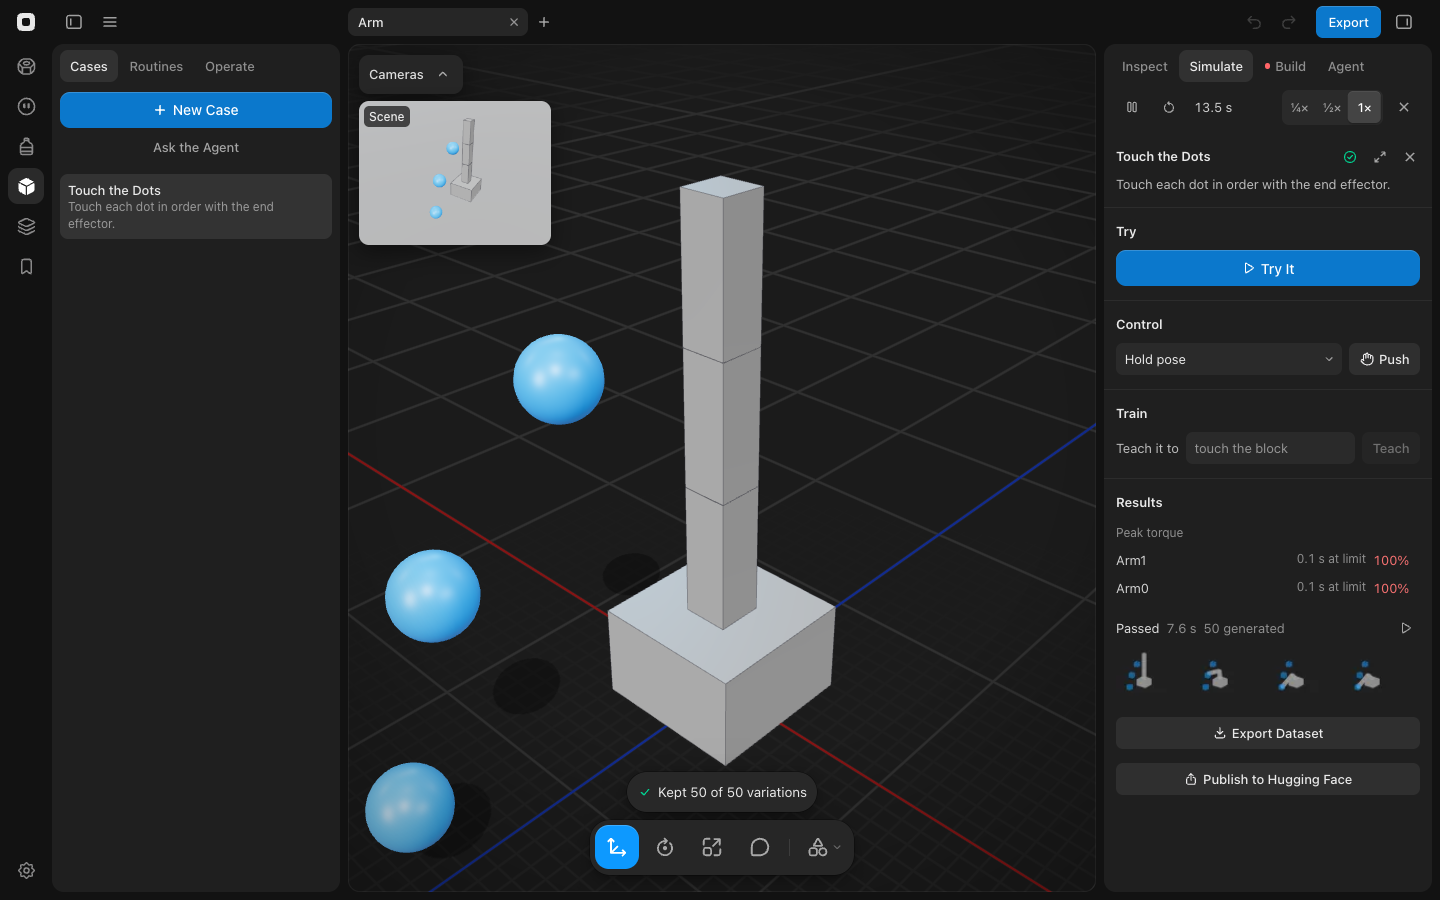
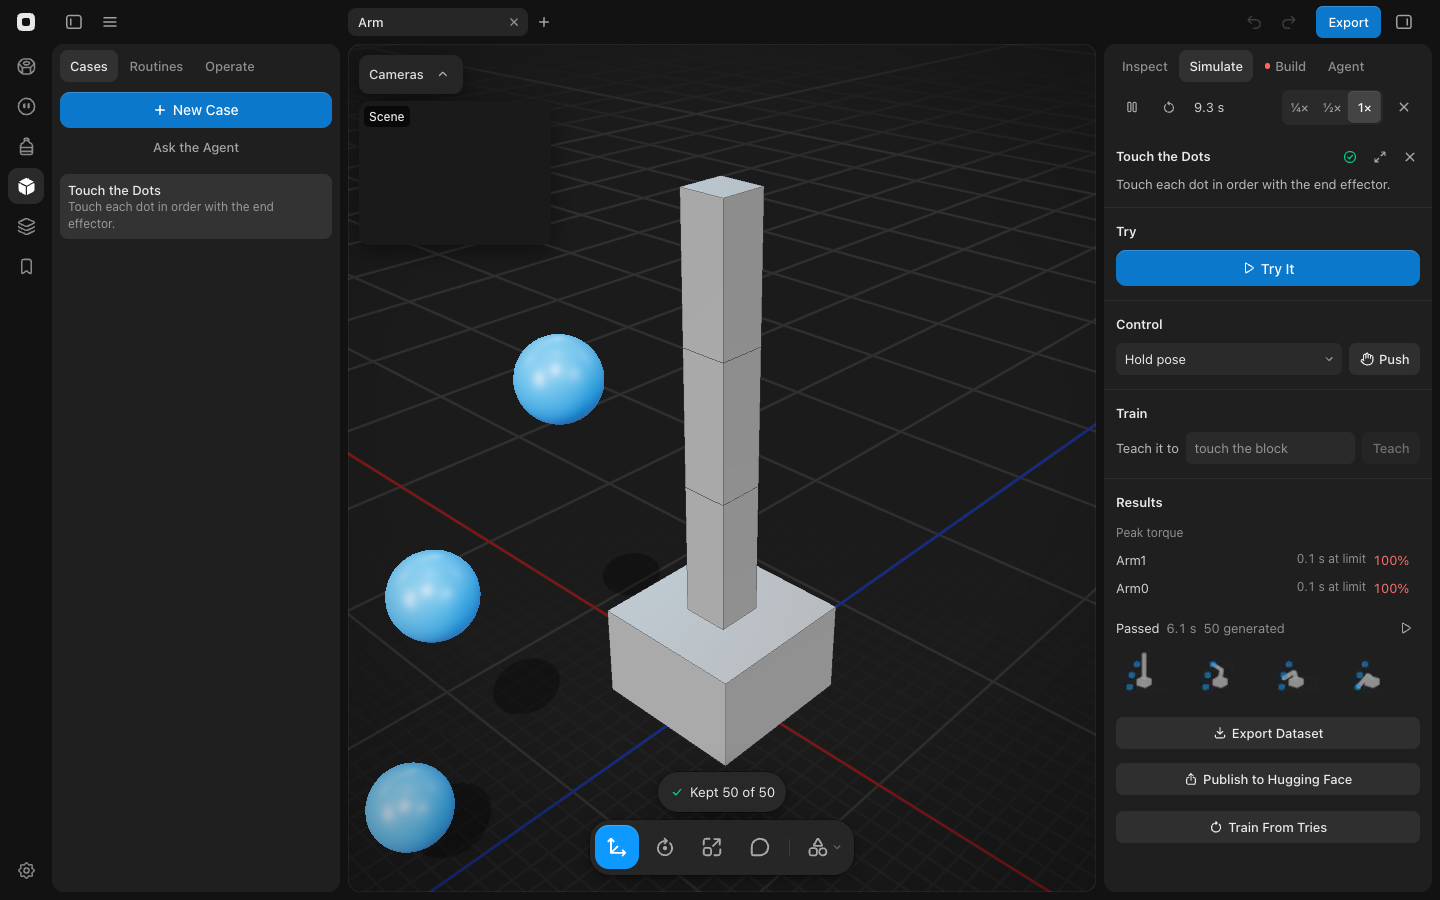
Fix Multiply's delete wording and orphaned recordings, and name its end toast by count
The delete confirmation said "Its 1 generated tries go with it." when one
variation passed. It now picks "try goes" or "tries go" from the count.

Deleting a try or a Case now reads the tries to drop from the project
when you confirm, and deletes their recordings there too. Generated tries
that landed while the dialog was open no longer leave recordings in the
tries store. A Multiply batch whose run ended while it was saving now
deletes the recordings it saved, so none are left without a try.

The end toast drops "variations" ("Kept 50 of 50"), so the only name for
what Multiply makes is the row's "generated". The e2e test, the help
article, the cases guide and the two toast screenshots now match.

The ten help articles flagged for covering edited files were read against
the new code. All of them still hold, so none changed.

diff --git a/src/workspace/useCases.ts b/src/workspace/useCases.ts
@@ -36,6 +36,14 @@ interface CasesOptions {
   caseRobot: () => Promise<CaseRobotInput | null>;
 }
 
+const dropTries = (tries: TryRecord[] | undefined, goes: (t: TryRecord) => boolean) => {
+  const all = tries ?? [];
+
+  all.filter(goes).forEach((t) => void deleteRecording(t.id));
+
+  return all.filter((t) => !goes(t));
+};
+
 export function useCases(options: CasesOptions) {
   const { parts, project, setProject, rig, sim, showToast, openAccounts, sceneId, partners } = options;
   const { skillTraining, caseRobot } = options;
@@ -96,15 +104,14 @@ export function useCases(options: CasesOptions) {
       title: `Delete ${kase.name}?`,
       body: 'Its tries go with it.',
       onConfirm: () => {
-        const gone = (project.tries ?? []).filter((t) => t.caseId === id);
+        const goes = (t: TryRecord) => t.caseId === id;
 
-        if (gone.some((t) => t.id === multiply.running?.source)) multiply.stop();
+        if ((project.tries ?? []).some((t) => goes(t) && t.id === multiply.running?.source)) multiply.stop();
 
-        gone.forEach((t) => void deleteRecording(t.id));
         setProject((p) => ({
           ...p,
           cases: (p.cases ?? []).filter((c) => c.id !== id),
-          tries: (p.tries ?? []).filter((t) => t.caseId !== id),
+          tries: dropTries(p.tries, goes),
         }));
 
         if (activeId === id) open(null);
@@ -119,20 +126,20 @@ export function useCases(options: CasesOptions) {
   const addTries = (records: TryRecord[]) => setProject((p) => ({ ...p, tries: [...(p.tries ?? []), ...records] }));
   const multiply = useTryMultiply({ sim, rig, parts, active, tries, partners, onTries: addTries, showToast });
   const removeTry = (record: TryRecord) => {
-    const generated = generatedFrom(tries, record);
-    const known = [record.id, ...generated.map((t) => t.id)];
-    const goes = (t: TryRecord) => t.id === record.id || (t.generated && t.manifest.source === record.id);
+    const generated = generatedFrom(tries, record).length;
+    const goes = (t: TryRecord) => t.id === record.id || (t.generated === true && t.manifest.source === record.id);
 
     confirmAction({
       title: `Delete this try?`,
-      ...(generated.length ? { body: `Its ${generated.length} generated tries go with it.` } : {}),
+      ...(generated
+        ? { body: `Its ${generated} generated ${generated === 1 ? 'try goes' : 'tries go'} with it.` }
+        : {}),
       onConfirm: () => {
         if (multiply.running?.source === record.id) multiply.stop();
 
         if (timeline.record && goes(timeline.record)) timeline.close();
 
-        known.forEach((id) => void deleteRecording(id));
-        setProject((p) => ({ ...p, tries: (p.tries ?? []).filter((t) => !goes(t)) }));
+        setProject((p) => ({ ...p, tries: dropTries(p.tries, goes) }));
       },
     });
   };

diff --git a/src/workspace/useTryMultiply.ts b/src/workspace/useTryMultiply.ts
@@ -4,7 +4,7 @@ import { caseCheckPool } from '../cases/caseChecksClient';
 import type { Case } from '../cases/schema';
 import type { SlotRobot } from '../cases/slots';
 import { generatedFrom, generatedTry, multipliable, sha256, type TryRecord, type TryScoring } from '../cases/tries';
-import { loadRecording, saveRecording } from '../cases/tryStore';
+import { deleteRecording, loadRecording, saveRecording } from '../cases/tryStore';
 import type { Variation } from '../cases/tryReplay';
 import { rigForWorker } from '../sim/drive';
 import type { Simulation } from '../sim/useSimulation';
@@ -51,7 +51,7 @@ const batchesOf = (seeds: number[]) =>
 const nextSeed = (tries: TryRecord[], source: TryRecord) =>
   Math.max(0, ...generatedFrom(tries, source).map((t) => t.manifest.seed)) + 1;
 
-const keptText = (kept: number, tried: number) => `Kept ${kept} of ${tried} variations`;
+const keptText = (kept: number, tried: number) => `Kept ${kept} of ${tried}`;
 
 export function useTryMultiply(options: MultiplyOptions): TryMultiply {
   const { sim, rig, parts, active, tries, partners, onTries, showToast } = options;
@@ -92,7 +92,13 @@ export function useTryMultiply(options: MultiplyOptions): TryMultiply {
 
     await Promise.all(made.map((t, i) => saveRecording(t.id, kept[i].recording)));
 
-    if (made.length && live()) onTries(made);
+    if (!live()) {
+      made.forEach((t) => void deleteRecording(t.id));
+
+      return;
+    }
+
+    if (made.length) onTries(made);
   };
 
   const run = async (record: TryRecord, kase: Case) => {

diff --git a/e2e/drive.e2e.test.ts b/e2e/drive.e2e.test.ts
@@ -365,7 +365,7 @@ describe('Multiply', () => {
       await expect.poll(() => app.page.getByText(/^Multiply$/).count(), { timeout: 15000 }).toBe(1);
       await app.page.keyboard.press('Enter');
 
-      const done = app.page.getByRole('status').filter({ hasText: /^Kept \d+ of 5 variations/ });
+      const done = app.page.getByRole('status').filter({ hasText: /^Kept \d+ of 5\b/ });
 
       await done.first().waitFor({ timeout: 120000 });
 

diff --git a/docs/guide/cases.md b/docs/guide/cases.md
@@ -132,8 +132,8 @@ A recording also keeps each joint's `qpos` address (`Recording.jointQpos`, from 
 - **A variation** (`replayTry` in `src/cases/tryReplay.ts`) builds an engine for the try's own model with `startEngine` (`runCase.ts`): seed `null` is the perfect world, any other seed draws the Case randomization through Arena's `ArenaWorld` as Checks does (§ Seeded runs). `worldOffsets` jitters the dynamic objects and the spots (markers) with `jitteredWorld(…, { spots: true })` from `worldRandom(seed)`. The start state is the try's first frame (qpos and qvel), with each moved dynamic object's free joint shifted and each moved spot's `body_pos` shifted, so the model and its hash stay the same. It replays the recorded commands and faults at their sim times, one physics step at a time, under the recorded controller, and records with the same `Recorder`.
 - **Targets follow their object.** `shiftedCommands` moves every command `target` (an arm's hand, or a ground waypoint) by the offset of the moved object or spot it was nearest at that moment in the source try (the object's pose from the recording's frame). A command without a target replays as it was, so a try driven with keys alone moves nothing with the objects.
 - **Judged by the contract.** Each variation is scored by `scoreTry` with the source's staged Case; probes and Case facts read objects and spots through `worldDeltas`, so they see where the jitter put them (`caseFacts` places each spot by its delta too). `multiplyTry` keeps only passes.
-- **In the workers.** `useTryMultiply` (`src/workspace/`) sends batches of 5 seeds as `multiply` jobs (`caseCheckJob.ts`) to the Checks pool (`caseCheckPool`) in their own `multiply` group, so they share its worker slots and a Checks rerun's `keepOnly` never drops them (`keepOnly` only touches its own group); recordings come back transferred. Seeds start after the highest this try already has, so multiplying again adds new variations. A progress toast (“Multiplying…”) has Stop, which drops the queued batches; the row shows a progress bar. The end toast says how many were kept of how many ran. Each run holds its own turn (`turn` in `useTryMultiply`), and Stop, an error or the end of the run moves it on, so a batch already running on a worker when the run ends lands under a stale turn and is dropped: it never adds tries under a later run on the same try, whose seeds may repeat it. Deleting the source try, or its Case, stops its run first, so no generated try outlives its source.
-- **Generated tries** (`generatedTry` in `tries.ts`) are passed tries with `generated: true`, id `<source>-<seed>`, and `manifest.seed` and `manifest.source`; their recordings go in the tries store like any other. Results lists only driven tries; a source row shows its count (“50 generated”, `generatedFrom`). Deleting it asks with that count and deletes them with it, including any that landed while the dialog was open.
+- **In the workers.** `useTryMultiply` (`src/workspace/`) sends batches of 5 seeds as `multiply` jobs (`caseCheckJob.ts`) to the Checks pool (`caseCheckPool`) in their own `multiply` group, so they share its worker slots and a Checks rerun's `keepOnly` never drops them (`keepOnly` only touches its own group); recordings come back transferred. Seeds start after the highest this try already has, so multiplying again adds new variations. A progress toast (“Multiplying…”) has Stop, which drops the queued batches; the row shows a progress bar. The end toast says how many were kept of how many ran. Each run holds its own turn (`turn` in `useTryMultiply`), and Stop, an error or the end of the run moves it on, so a batch already running on a worker when the run ends lands under a stale turn and is dropped, its saved recordings deleted: it never adds tries under a later run on the same try, whose seeds may repeat it. Deleting the source try, or its Case, stops its run first, so no generated try outlives its source.
+- **Generated tries** (`generatedTry` in `tries.ts`) are passed tries with `generated: true`, id `<source>-<seed>`, and `manifest.seed` and `manifest.source`; their recordings go in the tries store like any other. Results lists only driven tries; a source row shows its count (“50 generated”, `generatedFrom`). Deleting it asks with that count (“Its 1 generated try goes with it.”) and deletes them with it, including any that landed while the dialog was open: the tries to drop and the recordings to delete are read from the project when you confirm (`dropTries` in `useCases.ts`), and the same goes for deleting a Case.
 - **Tests** (`tryReplay.test.ts`, a try recorded the way the live worker does by `referenceTry` in `src/cases/testing.ts`): the recording holds the reference's commands and the drive controller; replaying with no jitter passes with qpos equal to the try's; each target moves by its nearest dot's offset; one Touch the Dots try on the fixture three-joint arm keeps 20 or more of 50 (it keeps 50); a try cut to its first command keeps none; Pick Up a Block's block starts at its offset and the grip target moves with it; a generated try carries its seed and source and is never multiplied again. `e2e/drive.e2e.test.ts` records the reference try, runs Multiply from ⌘K with 5 runs (`__studio.multiplyRuns`), checks the row's count and exports the source plus the passes.
 
 ### Logic

diff --git a/site/content/help/multiply-a-try-into-demonstrations.md b/site/content/help/multiply-a-try-into-demonstrations.md
@@ -36,7 +36,7 @@ Turn one passed try into up to 50 varied passing tries, so a dataset holds many 
 
 ![The toast shows Multiplying… with Stop, and a progress bar runs under the try](/help/multiply-a-try-into-demonstrations/multiplying.png)
 
-When it's done, the toast says how many it kept: "Kept 50 of 50 variations". The try's row counts them, as in **50 generated**.
+When it's done, the toast says how many it kept: "Kept 50 of 50". The try's row counts them, as in **50 generated**.
 
 ![The passed try's row reads 50 generated, above Export Dataset](/help/multiply-a-try-into-demonstrations/results.png)
 
